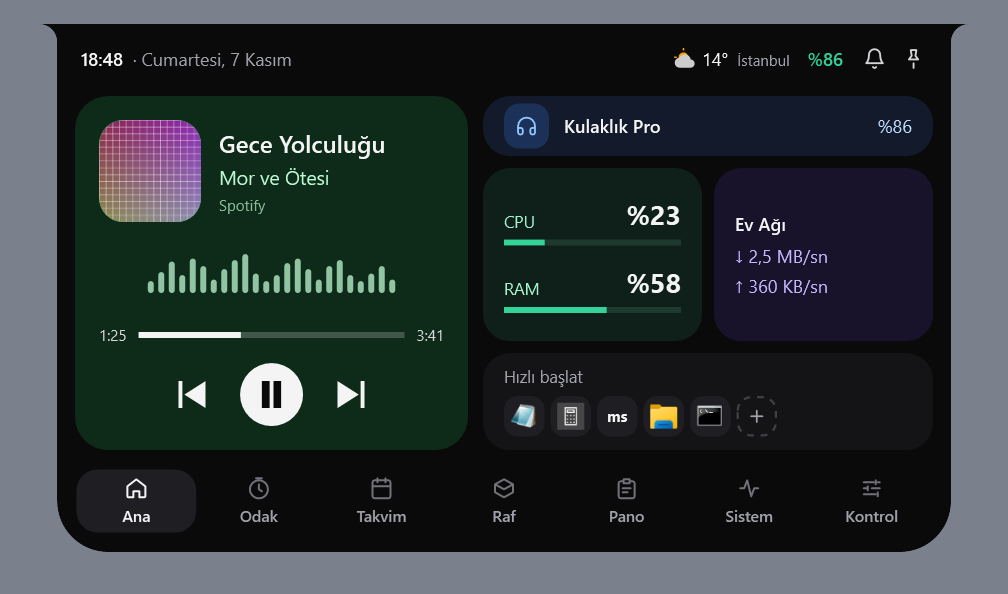
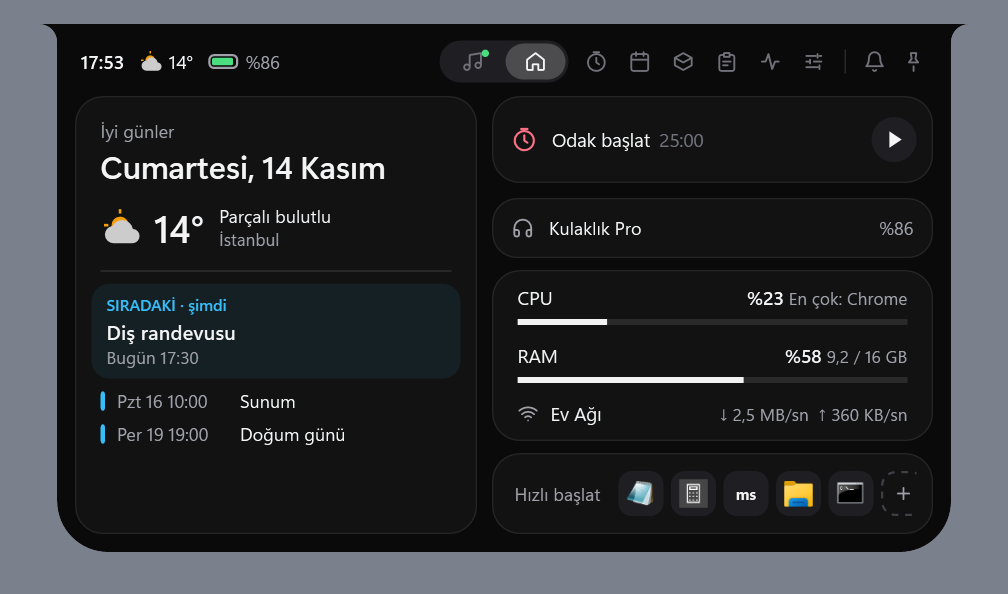
docs: refresh notch screenshots, site images and promo GIFs for the new notch

diff --git a/site/index.html b/site/index.html
@@ -35,7 +35,7 @@
   <link rel="preconnect" href="https://fonts.googleapis.com">
   <link rel="preconnect" href="https://fonts.gstatic.com" crossorigin>
   <link rel="stylesheet" href="https://fonts.googleapis.com/css2?family=Inter+Tight:wght@400;500&family=Inter:wght@400;500;600&display=swap">
-  <link rel="stylesheet" href="style.css?v=20261112-4">
+  <link rel="stylesheet" href="style.css?v=20261114">
   <script>document.documentElement.classList.add('js')</script>
 </head>
 <body>
@@ -64,9 +64,9 @@
     <section class="hero">
       <div class="aurora" aria-hidden="true"><span></span><span></span><span></span></div>
       <div class="stage stage--hero" data-notch="hero">
-        <img class="stage__closed" src="img/centik-kapali.webp?v=20261112" width="415" height="51" alt="">
-        <img class="stage__open" id="hero-open" src="img/centik-ana.webp?v=20261112" width="926" height="528" fetchpriority="high"
-             alt="The open Koy notch: now playing, headphone battery, CPU and memory, network speed and quick launch" data-i18n-attr="alt:hero.openAlt">
+        <img class="stage__closed" src="img/centik-kapali.webp?v=20261114" width="420" height="51" alt="">
+        <img class="stage__open" id="hero-open" src="img/centik-ana.webp?v=20261114" width="930" height="528" fetchpriority="high"
+             alt="The open Koy notch: date and weather, upcoming events, focus timer, headphone battery, system status and quick launch" data-i18n-attr="alt:hero.openAlt,src:img.ana">
         <button class="stage__zone" type="button" data-notch-zone aria-expanded="false" aria-controls="hero-open" aria-label="Open or close the notch" data-i18n-attr="aria-label:hero.zone"></button>
       </div>
       <p class="hero__hint" aria-hidden="true">
@@ -115,13 +115,15 @@
           <div class="showcase__side">
             <div class="tablist" role="tablist" aria-label="Notch pages" data-i18n-attr="aria-label:notch.tablist">
               <button class="tab" role="tab" id="tab-ana" aria-controls="panel-ana" aria-selected="true" data-key="ana" data-i18n="tab.home">Home</button>
+              <button class="tab" role="tab" id="tab-muzik" aria-controls="panel-muzik" aria-selected="false" tabindex="-1" data-key="muzik" data-i18n="tab.music">Music</button>
               <button class="tab" role="tab" id="tab-takvim" aria-controls="panel-takvim" aria-selected="false" tabindex="-1" data-key="takvim" data-i18n="tab.calendar">Calendar</button>
               <button class="tab" role="tab" id="tab-kontrol" aria-controls="panel-kontrol" aria-selected="false" tabindex="-1" data-key="kontrol" data-i18n="tab.control">Control Center</button>
               <button class="tab" role="tab" id="tab-wifi" aria-controls="panel-wifi" aria-selected="false" tabindex="-1" data-key="wifi" data-i18n="tab.wifi">Wi-Fi</button>
               <button class="tab" role="tab" id="tab-kapali" aria-controls="panel-kapali" aria-selected="false" tabindex="-1" data-key="kapali" data-i18n="tab.closed">When closed</button>
             </div>
             <div class="panels">
-              <p class="panel" role="tabpanel" id="panel-ana" aria-labelledby="tab-ana" data-key="ana" data-i18n="panel.home">Now playing, headphone battery, CPU and memory, network speed and quick launch at a glance. Music comes from Spotify, your browser or Windows Media Player.</p>
+              <p class="panel" role="tabpanel" id="panel-ana" aria-labelledby="tab-ana" data-key="ana" data-i18n="panel.home">Date and weather, your next events, a focus timer, headphone battery, CPU and memory, network speed and quick launch at a glance.</p>
+              <p class="panel" role="tabpanel" id="panel-muzik" aria-labelledby="tab-muzik" data-key="muzik" data-i18n="panel.music" hidden>Cover art, progress and controls on a page of their own, one tap from the top bar. Music comes from Spotify, your browser or Windows Media Player.</p>
               <p class="panel" role="tabpanel" id="panel-takvim" aria-labelledby="tab-takvim" data-key="takvim" data-i18n="panel.calendar" hidden>Month, week and day views, a timer, stopwatch and Pomodoro. Events stay on your computer. When time is up, the notch shakes to let you know.</p>
               <p class="panel" role="tabpanel" id="panel-kontrol" aria-labelledby="tab-kontrol" data-key="kontrol" data-i18n="panel.control" hidden>Wi-Fi, Bluetooth, Do Not Disturb, volume and brightness. Drag the tiles into any order you like.</p>
               <p class="panel" role="tabpanel" id="panel-wifi" aria-labelledby="tab-wifi" data-key="wifi" data-i18n="panel.wifi" hidden>Pick a network from the notch, just like in Windows. Connect to Bluetooth devices here too.</p>
@@ -133,11 +135,12 @@
           <div class="scene">
             <div class="aurora aurora--still" aria-hidden="true"><span></span><span></span><span></span></div>
             <div class="stage stage--shots">
-              <img class="shot is-active" data-key="ana" src="img/centik-ana.webp?v=20261112" width="926" height="528" loading="lazy" alt="Notch Home page: music, headphones, system and quick launch" data-i18n-attr="alt:shot.home">
-              <img class="shot" data-key="takvim" src="img/centik-takvim.webp?v=20261112" width="926" height="528" loading="lazy" alt="Notch Calendar page: month view, timer and events" data-i18n-attr="alt:shot.calendar">
-              <img class="shot" data-key="kontrol" src="img/centik-kontrol.webp?v=20261112" width="926" height="528" loading="lazy" alt="Control Center: Wi-Fi, Bluetooth, volume and brightness" data-i18n-attr="alt:shot.control">
-              <img class="shot" data-key="wifi" src="img/centik-wifi.webp?v=20261112" width="926" height="528" loading="lazy" alt="Wi-Fi network list in the notch" data-i18n-attr="alt:shot.wifi">
-              <img class="shot shot--closed" data-key="kapali" src="img/centik-kapali.webp?v=20261112" width="415" height="51" loading="lazy" alt="Closed notch: cover art and waveform while music plays" data-i18n-attr="alt:shot.closed">
+              <img class="shot is-active" data-key="ana" src="img/centik-ana.webp?v=20261114" width="930" height="528" loading="lazy" alt="Notch Home page: weather, events, focus, headphones, system and quick launch" data-i18n-attr="alt:shot.home,src:img.ana">
+              <img class="shot" data-key="muzik" src="img/centik-muzik.webp?v=20261114" width="930" height="528" loading="lazy" alt="Notch Music page: cover art, progress and playback controls" data-i18n-attr="alt:shot.music,src:img.muzik">
+              <img class="shot" data-key="takvim" src="img/centik-takvim.webp?v=20261114" width="930" height="528" loading="lazy" alt="Notch Calendar page: month view, timer and events" data-i18n-attr="alt:shot.calendar,src:img.takvim">
+              <img class="shot" data-key="kontrol" src="img/centik-kontrol.webp?v=20261114" width="930" height="528" loading="lazy" alt="Control Center: Wi-Fi, Bluetooth, volume and brightness" data-i18n-attr="alt:shot.control,src:img.kontrol">
+              <img class="shot" data-key="wifi" src="img/centik-wifi.webp?v=20261114" width="930" height="528" loading="lazy" alt="Wi-Fi network list in the notch" data-i18n-attr="alt:shot.wifi,src:img.wifi">
+              <img class="shot shot--closed" data-key="kapali" src="img/centik-kapali.webp?v=20261114" width="420" height="51" loading="lazy" alt="Closed notch: cover art and waveform while music plays" data-i18n-attr="alt:shot.closed">
             </div>
           </div>
         </div>
@@ -161,8 +164,8 @@
           <div class="scene scene--tall">
             <div class="aurora aurora--still" aria-hidden="true"><span></span><span></span><span></span></div>
             <div class="stage stage--demo" data-notch="demo">
-              <img class="stage__closed" src="img/centik-kapali.webp?v=20261112" width="415" height="51" loading="lazy" alt="">
-              <img class="stage__open" id="demo-open" src="img/centik-ana.webp?v=20261112" width="926" height="528" loading="lazy" alt="The opened notch: music, headphone battery, system and quick launch" data-i18n-attr="alt:demo.openAlt">
+              <img class="stage__closed" src="img/centik-kapali.webp?v=20261114" width="420" height="51" loading="lazy" alt="">
+              <img class="stage__open" id="demo-open" src="img/centik-ana.webp?v=20261114" width="930" height="528" loading="lazy" alt="The opened notch: weather, events, headphone battery, system and quick launch" data-i18n-attr="alt:demo.openAlt,src:img.ana">
               <button class="stage__zone" type="button" data-notch-zone aria-expanded="false" aria-controls="demo-open" aria-label="Open or close the notch" data-i18n-attr="aria-label:hero.zone"></button>
             </div>
             <img class="dock-img scene__dock" src="img/dock.webp?v=20261112-3" width="1057" height="161" loading="lazy" alt="The Koy dock at the bottom of the screen: pinned apps and open windows" data-i18n-attr="alt:demo.dockAlt">
@@ -312,7 +315,7 @@
     </div>
   </footer>
 
-  <script src="js/i18n.js?v=20261112-2"></script>
-  <script type="module" src="js/main.js?v=20261112-2"></script>
+  <script src="js/i18n.js?v=20261114"></script>
+  <script type="module" src="js/main.js?v=20261114"></script>
 </body>
 </html>

diff --git a/site/js/i18n.js b/site/js/i18n.js
@@ -22,7 +22,7 @@
       'nav.download': 'Download',
       'nav.language': 'Language',
 
-      'hero.openAlt': 'The open Koy notch: now playing, headphone battery, CPU and memory, network speed and quick launch',
+      'hero.openAlt': 'The open Koy notch: date and weather, upcoming events, focus timer, headphone battery, system status and quick launch',
       'hero.zone': 'Open or close the notch',
       'hero.hint': 'Point at the top edge',
       'hero.hintTouch': 'Tap the notch',
@@ -38,17 +38,25 @@
       'notch.lead': 'Move the mouse to the top edge and the notch springs open. Music, calendar, Wi-Fi and system status, all in one place.',
       'notch.tablist': 'Notch pages',
       'tab.home': 'Home',
+      'tab.music': 'Music',
+      'img.ana': 'img/centik-ana.webp?v=20261114',
+      'img.muzik': 'img/centik-muzik.webp?v=20261114',
+      'img.kontrol': 'img/centik-kontrol.webp?v=20261114',
+      'img.takvim': 'img/centik-takvim.webp?v=20261114',
+      'img.wifi': 'img/centik-wifi.webp?v=20261114',
       'tab.calendar': 'Calendar',
       'tab.control': 'Control Center',
       'tab.wifi': 'Wi-Fi',
       'tab.closed': 'When closed',
-      'panel.home': 'Now playing, headphone battery, CPU and memory, network speed and quick launch at a glance. Music comes from Spotify, your browser or Windows Media Player.',
+      'panel.home': 'Date and weather, your next events, a focus timer, headphone battery, CPU and memory, network speed and quick launch at a glance.',
+      'panel.music': 'Cover art, progress and controls on a page of their own, one tap from the top bar. Music comes from Spotify, your browser or Windows Media Player.',
       'panel.calendar': 'Month, week and day views, a timer, stopwatch and Pomodoro. Events stay on your computer. When time is up, the notch shakes to let you know.',
       'panel.control': 'Wi-Fi, Bluetooth, Do Not Disturb, volume and brightness. Drag the tiles into any order you like.',
       'panel.wifi': 'Pick a network from the notch, just like in Windows. Connect to Bluetooth devices here too.',
       'panel.closed': 'When closed, the notch stays small: cover art and a waveform if music is playing, otherwise the clock and battery. A brief indicator appears when volume or brightness changes.',
       'panel.note': 'There are also Focus, Shelf (drag and drop files and text), Clipboard and System pages.',
-      'shot.home': 'Notch Home page: music, headphones, system and quick launch',
+      'shot.home': 'Notch Home page: weather, events, focus, headphones, system and quick launch',
+      'shot.music': 'Notch Music page: cover art, progress and playback controls',
       'shot.calendar': 'Notch Calendar page: month view, timer and events',
       'shot.control': 'Control Center: Wi-Fi, Bluetooth, volume and brightness',
       'shot.wifi': 'Wi-Fi network list in the notch',
@@ -60,7 +68,7 @@
       'dock.f2': '<strong>Previews over icons.</strong> Hover to see a live thumbnail of an open window.',
       'dock.f3': '<strong>System tray on the dock.</strong> Tray icons and menus of apps like Discord and Steam work from the dock.',
       'dock.f4': '<strong>Drag to reorder.</strong> The order of pinned apps is yours and survives restarts.',
-      'demo.openAlt': 'The opened notch: music, headphone battery, system and quick launch',
+      'demo.openAlt': 'The opened notch: weather, events, headphone battery, system and quick launch',
       'demo.dockAlt': 'The Koy dock at the bottom of the screen: pinned apps and open windows',
       'demo.hint': 'Move the mouse over the notch and it springs open. On touch screens, tap it.',
 
@@ -128,7 +136,7 @@
       'nav.download': 'İndir',
       'nav.language': 'Dil',
 
-      'hero.openAlt': 'Açık Koy çentiği: çalan müzik, kulaklık pili, işlemci ve bellek, ağ hızı ve hızlı başlat',
+      'hero.openAlt': 'Açık Koy çentiği: tarih ve hava, sıradaki etkinlikler, odak sayacı, kulaklık pili, sistem durumu ve hızlı başlat',
       'hero.zone': 'Çentiği aç ya da kapat',
       'hero.hint': 'Fareyi üst kenara götür',
       'hero.hintTouch': 'Çentiğe dokun',
@@ -144,17 +152,25 @@
       'notch.lead': 'Fareyi üst kenara götür, çentik yayla açılsın. Müzik, takvim, Wi-Fi ve sistem durumu hep aynı yerde.',
       'notch.tablist': 'Çentik sayfaları',
       'tab.home': 'Ana',
+      'tab.music': 'Müzik',
+      'img.ana': 'img/centik-ana-tr.webp?v=20261114',
+      'img.muzik': 'img/centik-muzik-tr.webp?v=20261114',
+      'img.kontrol': 'img/centik-kontrol-tr.webp?v=20261114',
+      'img.takvim': 'img/centik-takvim-tr.webp?v=20261114',
+      'img.wifi': 'img/centik-wifi-tr.webp?v=20261114',
       'tab.calendar': 'Takvim',
       'tab.control': 'Kontrol Merkezi',
       'tab.wifi': 'Wi-Fi',
       'tab.closed': 'Kapalıyken',
-      'panel.home': "Çalan müzik, kulaklık pili, işlemci ve bellek, ağ hızı ve hızlı başlat tek bakışta. Müzik Spotify'dan, tarayıcıdan ya da Windows Medya Oynatıcı'dan gelir.",
+      'panel.home': 'Tarih ve hava, sıradaki etkinlikler, odak sayacı, kulaklık pili, işlemci ve bellek, ağ hızı ve hızlı başlat tek bakışta.',
+      'panel.music': "Kapak, ilerleme ve kontroller kendi sayfasında, üst çubuktan tek dokunuş uzakta. Müzik Spotify'dan, tarayıcıdan ya da Windows Medya Oynatıcı'dan gelir.",
       'panel.calendar': 'Ay, hafta ve gün görünümü, zamanlayıcı, kronometre ve Pomodoro. Etkinlikler bilgisayarında kalır. Süre bitince çentik titreyerek haber verir.',
       'panel.control': 'Wi-Fi, Bluetooth, Rahatsız Etme, ses ve parlaklık. Döşemeleri sürükleyerek istediğin sıraya koy.',
       'panel.wifi': "Ağları çentikten seç, Windows'taki gibi. Bluetooth cihazlarına da buradan bağlan.",
       'panel.closed': 'Kapalıyken çentik küçük kalır: müzik çalıyorsa kapak ve dalga, çalmıyorsa saat ve pil. Ses ya da parlaklık değişince kısa bir gösterge çıkar.',
       'panel.note': 'Ayrıca Odak, Raf (dosya ve metin sürükle-bırak), Pano ve Sistem sayfaları var.',
-      'shot.home': 'Çentik Ana sayfası: müzik, kulaklık, sistem ve hızlı başlat',
+      'shot.home': 'Çentik Ana sayfası: hava, etkinlikler, odak, kulaklık, sistem ve hızlı başlat',
+      'shot.music': 'Çentik Müzik sayfası: kapak, ilerleme ve oynatma kontrolleri',
       'shot.calendar': 'Çentik Takvim sayfası: ay görünümü, zamanlayıcı ve etkinlikler',
       'shot.control': 'Kontrol Merkezi: Wi-Fi, Bluetooth, ses ve parlaklık',
       'shot.wifi': 'Çentikte Wi-Fi ağ listesi',
@@ -166,7 +182,7 @@
       'dock.f2': '<strong>Simgenin üstünde önizleme.</strong> Fareyle üzerine gel, açık pencerenin canlı küçük görüntüsünü gör.',
       'dock.f3': "<strong>Sistem tepsisi dock'ta.</strong> Discord, Steam gibi uygulamaların tepsi simgeleri ve menüleri dock'tan çalışır.",
       'dock.f4': '<strong>Sürükleyerek sırala.</strong> Sabitli uygulamaların sırası senin düzenin, yeniden başlatınca korunur.',
-      'demo.openAlt': 'Açılmış çentik: müzik, kulaklık pili, sistem ve hızlı başlat',
+      'demo.openAlt': 'Açılmış çentik: hava, etkinlikler, kulaklık pili, sistem ve hızlı başlat',
       'demo.dockAlt': "Ekranın altında Koy dock'u: sabitli uygulamalar ve açık pencereler",
       'demo.hint': 'Fareyi çentiğin üstüne götür, yayla açılsın. Dokunmatikte dokun.',
 

diff --git a/site/style.css b/site/style.css
@@ -22,9 +22,9 @@ html, body { background: #f6f7fb; }
   --ease-open: cubic-bezier(.3, 1.32, .55, 1);
   --ease-close: cubic-bezier(.45, 0, .2, 1);
 
-  /* Açık çentik görüntüsü 926×528; kapalı çentik onun genişliğinin %44,8'i, yüksekliğinin %9,7'si. */
-  --closed-w: 44.8%;
-  --closed-scale: scale(.448, .097);
+  /* Açık çentik görüntüsü 930×528; kapalı çentik onun genişliğinin %45,2'i, yüksekliğinin %9,7'si. */
+  --closed-w: 45.2%;
+  --closed-scale: scale(.452, .097);
 }
 
 @media (prefers-color-scheme: dark) {
@@ -112,7 +112,7 @@ h3 { font-size: 18px; line-height: 1.3; letter-spacing: -.01em; }
 .aurora--still span { animation: none; }
 
 /* ---------- Çentik sahnesi: kapalı görüntü, açık görüntü ve fare alanı ---------- */
-.stage { position: absolute; top: 0; left: 50%; width: var(--nw); aspect-ratio: 926 / 528; transform: translateX(-50%); z-index: 3; }
+.stage { position: absolute; top: 0; left: 50%; width: var(--nw); aspect-ratio: 930 / 528; transform: translateX(-50%); z-index: 3; }
 .stage img { user-select: none; -webkit-user-drag: none; }
 .stage__closed { position: absolute; top: 0; left: 50%; width: var(--closed-w); transform: translateX(-50%); transition: opacity .2s ease .28s; }
 .stage__open {

diff --git a/site/js/main.js b/site/js/main.js
@@ -3,7 +3,7 @@ import { initReveal } from './reveal.js?v=20261112-2';
 import { initTabs } from './tabs.js?v=20261112-2';
 import { initVersion } from './version.js?v=20261112-2';
 import { initCopy } from './copy.js?v=20261112-2';
-import { initNotch } from './notch.js?v=20261112-2';
+import { initNotch } from './notch.js?v=20261114';
 import { initParallax } from './parallax.js?v=20261112-2';
 
 // Giriş animasyonu fontlar yerleşince başlar; yoksa başlık sıçrar.

diff --git a/site/js/notch.js b/site/js/notch.js
@@ -7,7 +7,7 @@
 import { loadMotion, OPEN, CLOSE } from './spring.js?v=20261112-2';
 
 const CLOSE_DELAY = 400;
-const CLOSED = { scaleX: 0.448, scaleY: 0.097 }; // kapalı çentiğin açık görüntüye oranı (415/926, 51/528)
+const CLOSED = { scaleX: 0.452, scaleY: 0.097 }; // kapalı çentiğin açık görüntüye oranı (420/930, 51/528)
 
 export function initNotch(root) {
   const zone = root.querySelector('[data-notch-zone]');

diff --git a/tools/Koy.UiSnapshots/Program.cs b/tools/Koy.UiSnapshots/Program.cs
@@ -20,6 +20,7 @@ namespace Koy.UiSnapshots;
 /// <c>--scene uninstall</c>: yalnız Hakkında sayfası ve kaldırma onay görünümü (kaldırıcı hiçbir zaman çalıştırılmaz).
 /// <c>--scene sitedock</c>: tanıtım sitesi için, görev çubuğuna sabitlenmiş gerçek uygulamalarla kapsül dock.
 /// <c>--user-theme &lt;yol&gt;</c>: o user-theme.json dosyasını (ör. store/ tema paketinin theme.json'ı) uygulayarak çizer; %AppData% dosyasına dokunulmaz.
+/// <c>--lang en|tr</c>: arayüz dili (çentik sahneleri; verilmezse makinenin dili). İngilizce README ve site görüntüleri için.
 /// <c>--transparent</c>: gri zemin çizilmez (siteye doğrudan konacak görüntüler). <c>--scale 2</c>: çözünürlük çarpanı (varsayılan 1,5).
 /// </summary>
 public static class Program
@@ -41,6 +42,9 @@ public static class Program
     /// <summary>Çizimin arkasındaki zemin; saydam yüzeyler bunu gösterir.</summary>
     private static Color Backdrop = Color.FromRgb(0x7A, 0x80, 0x8C);
 
+    /// <summary>--lang ile verilen arayüz dili ("en" / "tr"); null ise ayarın varsayılanı.</summary>
+    private static string? Language;
+
     [STAThread]
     public static int Main(string[] args)
     {
@@ -49,6 +53,15 @@ public static class Program
         var themeArg = (Arg(args, "--theme") ?? "dark").ToLowerInvariant();
         var scene = (Arg(args, "--scene") ?? "all").ToLowerInvariant();
         Transparent = args.Contains("--transparent");
+        if (Arg(args, "--lang") is "en" or "tr")
+        {
+            Language = Arg(args, "--lang");
+            var culture = new System.Globalization.CultureInfo(Language == "en" ? "en-US" : "tr-TR");
+            System.Globalization.CultureInfo.CurrentUICulture = culture;
+            System.Globalization.CultureInfo.CurrentCulture = culture;
+            System.Globalization.CultureInfo.DefaultThreadCurrentUICulture = culture;
+            System.Globalization.CultureInfo.DefaultThreadCurrentCulture = culture;
+        }
         if (Arg(args, "--user-theme") is { Length: > 0 } userTheme)
         {
             UserThemePath = Path.GetFullPath(userTheme);
@@ -293,8 +306,8 @@ public static class Program
                 Longitude = 28.97
             }
         };
-        if (language is not null)
-            settings.General.Language = language;
+        if ((language ?? Language) is { } lang)
+            settings.General.Language = lang;
 
         var controller = new Koy.Core.Notch.NotchController();
         controller.SetEnabledPanels(Koy.Core.Notch.NotchPanels.Order);
@@ -360,7 +373,10 @@ public static class Program
 
     private static Koy.App.Features.Calendar.CalendarViewModel MakeCalendar(AppSettings settings)
     {
-        var events = new Koy.App.Features.Calendar.SharedEvents(new Koy.Core.Calendar.EventStore(TempFile("events.json")));
+        // Önbellek de geçici dosyada: yoksa kullanıcının gerçek Google/Outlook etkinlikleri görüntüye karışır.
+        var events = new Koy.App.Features.Calendar.SharedEvents(
+            new Koy.Core.Calendar.EventStore(TempFile("events.json")),
+            new Koy.Core.Calendar.CalendarCacheStore(TempFile("calendar-cache.json")));
         var today = DateOnly.FromDateTime(DateTime.Today);
         events.Book.Add("Takım toplantısı", today, new TimeOnly(14, 0));
         events.Book.Add("Diş randevusu", today, new TimeOnly(17, 30));
@@ -566,6 +582,10 @@ public static class Program
         // Müzik kartına tıklanınca: büyük kart Ana gövdesini kaplar.
         set.Vm.ShowHomePageCommand.Execute(Koy.Core.Notch.NotchHomePage.Home);
         ShotNotch(set, name("ana-muzik-buyuk"), expanded: true);
+        // Müzik sayfası (D düzeni): üst çubuktaki nota düğmesi.
+        set.Vm.ShowHomePageCommand.Execute(Koy.Core.Notch.NotchHomePage.Music);
+        Flush();
+        ShotNotch(set, name("muzik"), expanded: true);
         set.Vm.Dispose();
 
         // Müzik kartı stilleri (#66): Albüm kapağı (küçük ve büyük kart) ve Düz.

diff --git a/tools/Koy.UiSnapshots/CentikFakes.cs b/tools/Koy.UiSnapshots/CentikFakes.cs
@@ -66,7 +66,8 @@ internal sealed class FakePower(int percent = 86, bool charging = false, bool ha
 
 internal sealed class FakeWeather : IWeatherService
 {
-    public WeatherInfo? CurrentWeather { get; } = new(14, 2, "Parçalı bulutlu", "PartlyCloudy", DateTimeOffset.Now);
+    public WeatherInfo? CurrentWeather { get; } = new(14, 2,
+        System.Globalization.CultureInfo.CurrentUICulture.TwoLetterISOLanguageName == "en" ? "Partly cloudy" : "Parçalı bulutlu", "PartlyCloudy", DateTimeOffset.Now);
     public event EventHandler<WeatherInfo?>? WeatherChanged { add { } remove { } }
     public Task<WeatherInfo?> GetCurrentWeatherAsync(double latitude, double longitude, CancellationToken cancellationToken = default) =>
         Task.FromResult(CurrentWeather);

diff --git a/README.md b/README.md
@@ -36,8 +36,9 @@
 | | |
 | :---: | :---: |
 | <img alt="Closed notch while music is playing" src="docs/screenshots/centik-kapali.png" width="360"><br><sub>Closed notch: cover art and waveform while music plays</sub> | <img alt="Dock" src="docs/screenshots/dock.png" width="420"><br><sub>Dock: replaces the Windows taskbar</sub> |
-| <img alt="Control Center" src="docs/screenshots/centik-kontrol.png" width="420"><br><sub>Control Center: Wi-Fi, Bluetooth, volume, brightness</sub> | <img alt="Calendar" src="docs/screenshots/centik-takvim.png" width="420"><br><sub>Calendar: month, week and day views, events</sub> |
-| <img alt="Wi-Fi list" src="docs/screenshots/centik-wifi.png" width="420"><br><sub>Wi-Fi list: network selection like in Windows</sub> | <img alt="Notch: Home panel" src="docs/screenshots/centik-ana.png" width="420"><br><sub>Home panel: now playing, headphone battery, system and network, quick launch</sub> |
+| <img alt="Notch: Home page" src="docs/screenshots/centik-ana-en.png" width="420"><br><sub>Home: date and weather, upcoming events, focus timer, headphone battery, system and network, quick launch</sub> | <img alt="Notch: Music page" src="docs/screenshots/centik-muzik-en.png" width="420"><br><sub>Music: cover art, progress and controls on a page of its own</sub> |
+| <img alt="Control Center" src="docs/screenshots/centik-kontrol-en.png" width="420"><br><sub>Control Center: Wi-Fi, Bluetooth, volume, brightness</sub> | <img alt="Calendar" src="docs/screenshots/centik-takvim-en.png" width="420"><br><sub>Calendar: month, week and day views, events</sub> |
+| <img alt="Wi-Fi list" src="docs/screenshots/centik-wifi-en.png" width="420"><br><sub>Wi-Fi list: network selection like in Windows</sub> | |
 
 <sub>Notch images were rendered with sample data (`tools/Koy.UiSnapshots`); the dock image is from a real screen. The app UI is available in English and Turkish.</sub>
 

diff --git a/README.tr.md b/README.tr.md
@@ -36,8 +36,9 @@
 | | |
 | :---: | :---: |
 | <img alt="Kapalı çentik, müzik çalarken" src="docs/screenshots/centik-kapali.png" width="360"><br><sub>Kapalı çentik: müzik çalarken kapak ve dalga</sub> | <img alt="Dock" src="docs/screenshots/dock.png" width="420"><br><sub>Dock: Windows görev çubuğunun yerine</sub> |
+| <img alt="Çentik: Ana sayfa" src="docs/screenshots/centik-ana.png" width="420"><br><sub>Ana: tarih ve hava, sıradaki etkinlikler, odak sayacı, kulaklık pili, sistem ve ağ, hızlı başlat</sub> | <img alt="Çentik: Müzik sayfası" src="docs/screenshots/centik-muzik.png" width="420"><br><sub>Müzik: kapak, ilerleme ve kontroller kendi sayfasında</sub> |
 | <img alt="Kontrol Merkezi" src="docs/screenshots/centik-kontrol.png" width="420"><br><sub>Kontrol Merkezi: Wi-Fi, Bluetooth, ses, parlaklık</sub> | <img alt="Takvim" src="docs/screenshots/centik-takvim.png" width="420"><br><sub>Takvim: ay, hafta ve gün görünümü, etkinlikler</sub> |
-| <img alt="Wi-Fi listesi" src="docs/screenshots/centik-wifi.png" width="420"><br><sub>Wi-Fi listesi: Windows'taki gibi ağ seçimi</sub> | <img alt="Çentik: Ana panel" src="docs/screenshots/centik-ana.png" width="420"><br><sub>Ana panel: çalan müzik, kulaklık pili, sistem ve ağ, hızlı başlat</sub> |
+| <img alt="Wi-Fi listesi" src="docs/screenshots/centik-wifi.png" width="420"><br><sub>Wi-Fi listesi: Windows'taki gibi ağ seçimi</sub> | |
 
 <sub>Çentik görüntüleri örnek verilerle çizildi (`tools/Koy.UiSnapshots`); dock görüntüsü gerçek ekrandan.</sub>
 
